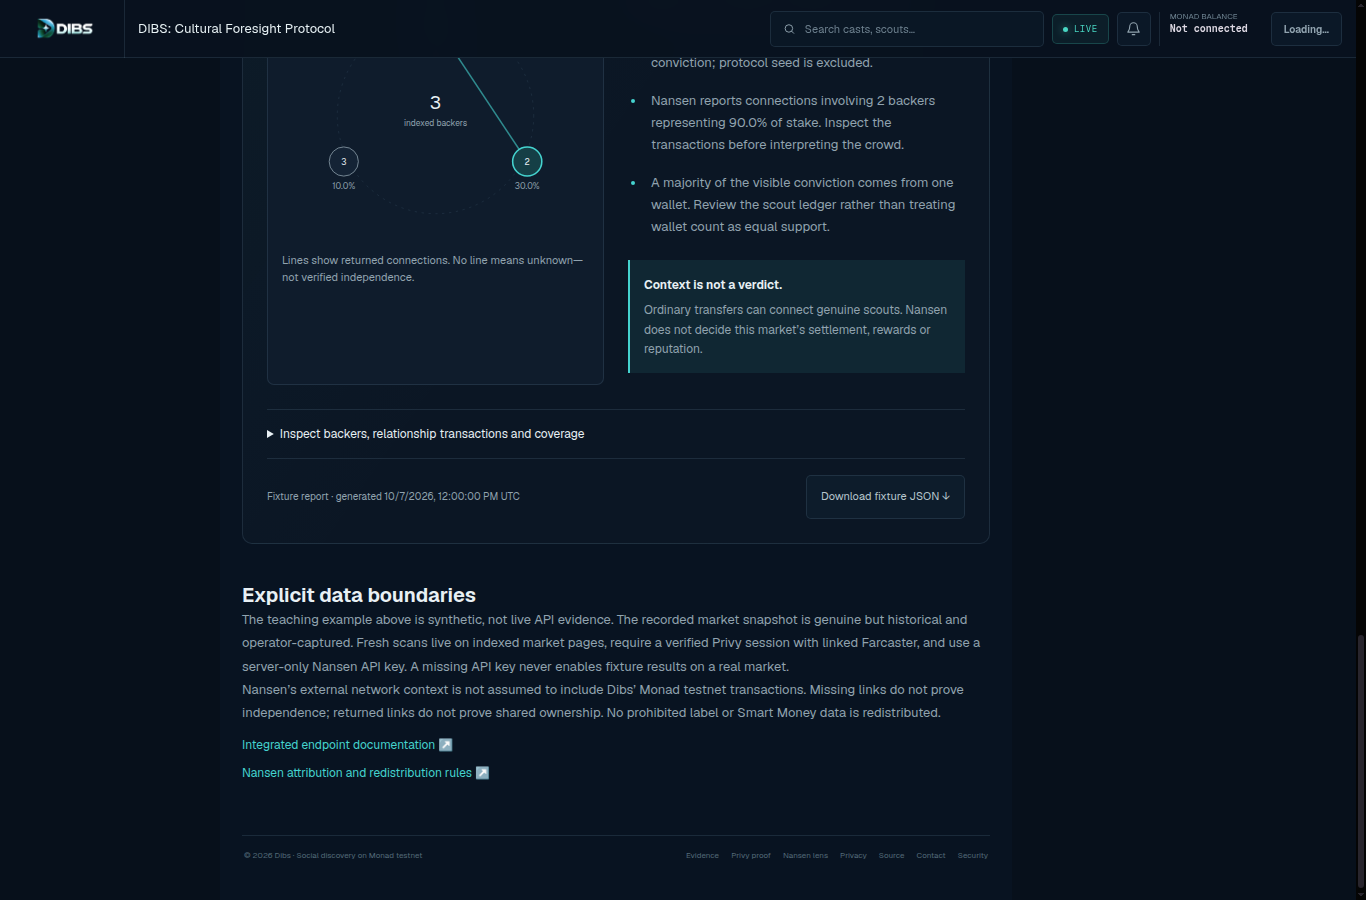
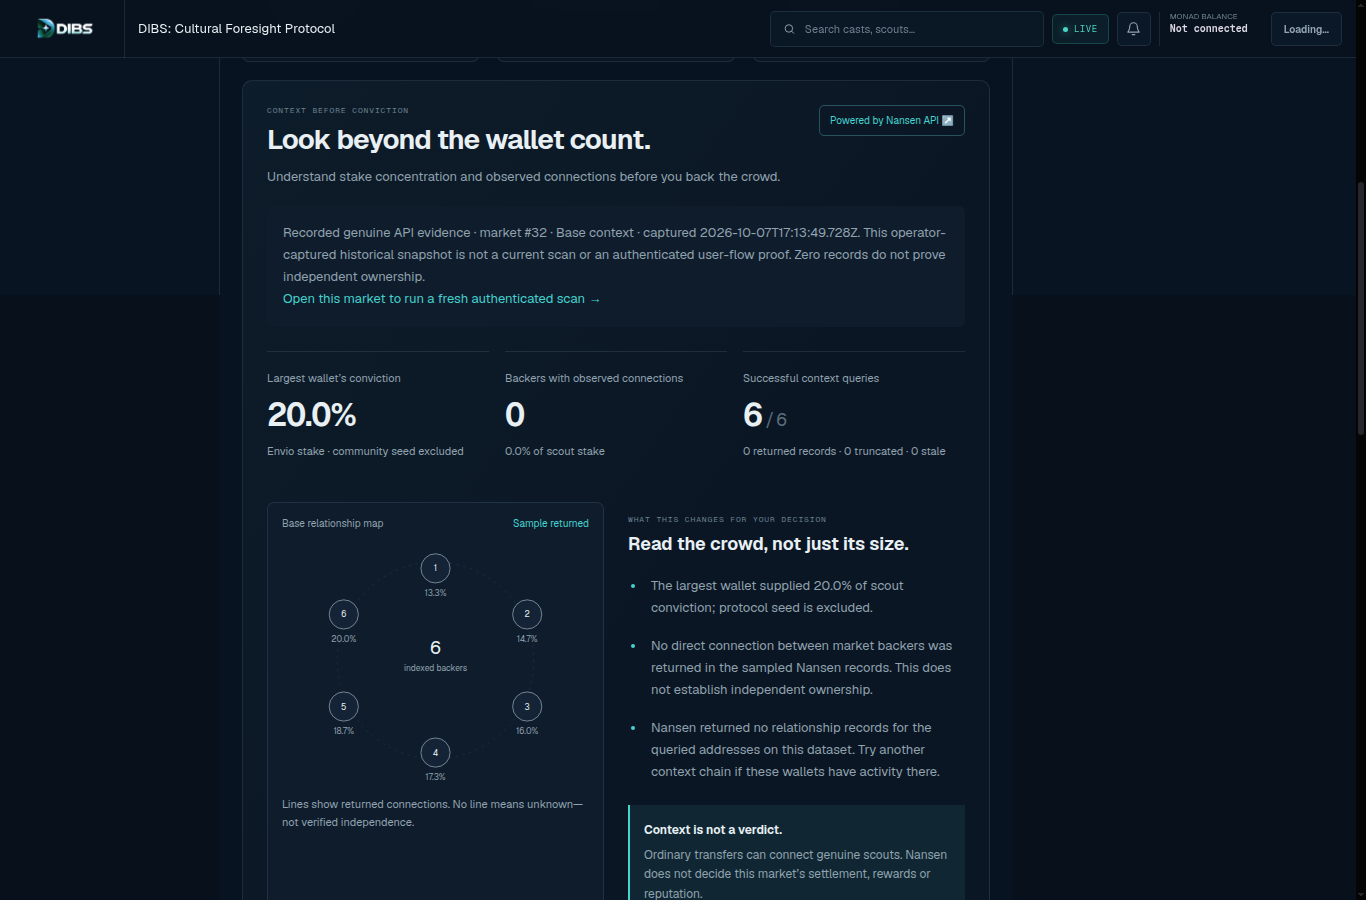
test: stabilize Nansen evidence screenshot capture

diff --git a/evidence/nansen/verification.md b/evidence/nansen/verification.md
@@ -52,7 +52,7 @@ Production alias: https://dibs-metropolis.vercel.app
 - Production Nansen configuration: enabled and configured, at most eight wallets, 900-second cache.
 - `/api/health`: healthy, Envio ready, CRE receiver still in pinned DON mode.
 - Cross-site scan POST: HTTP 403. Unauthenticated same-origin browser POST: HTTP 401.
-- Desktop and mobile checks passed at `2026-10-07T17:25:36.749Z`, with zero runtime exceptions,
+- Desktop and mobile checks passed at `2026-10-07T17:27:15.959Z`, with zero runtime exceptions,
   no horizontal overflow, a full-size map and separate historical/synthetic disclosures.
 - Public responses passed the real-key redaction check. Browser smoke checks made zero paid calls.
 - [Machine-readable production browser proof](production-browser-verification.json),
